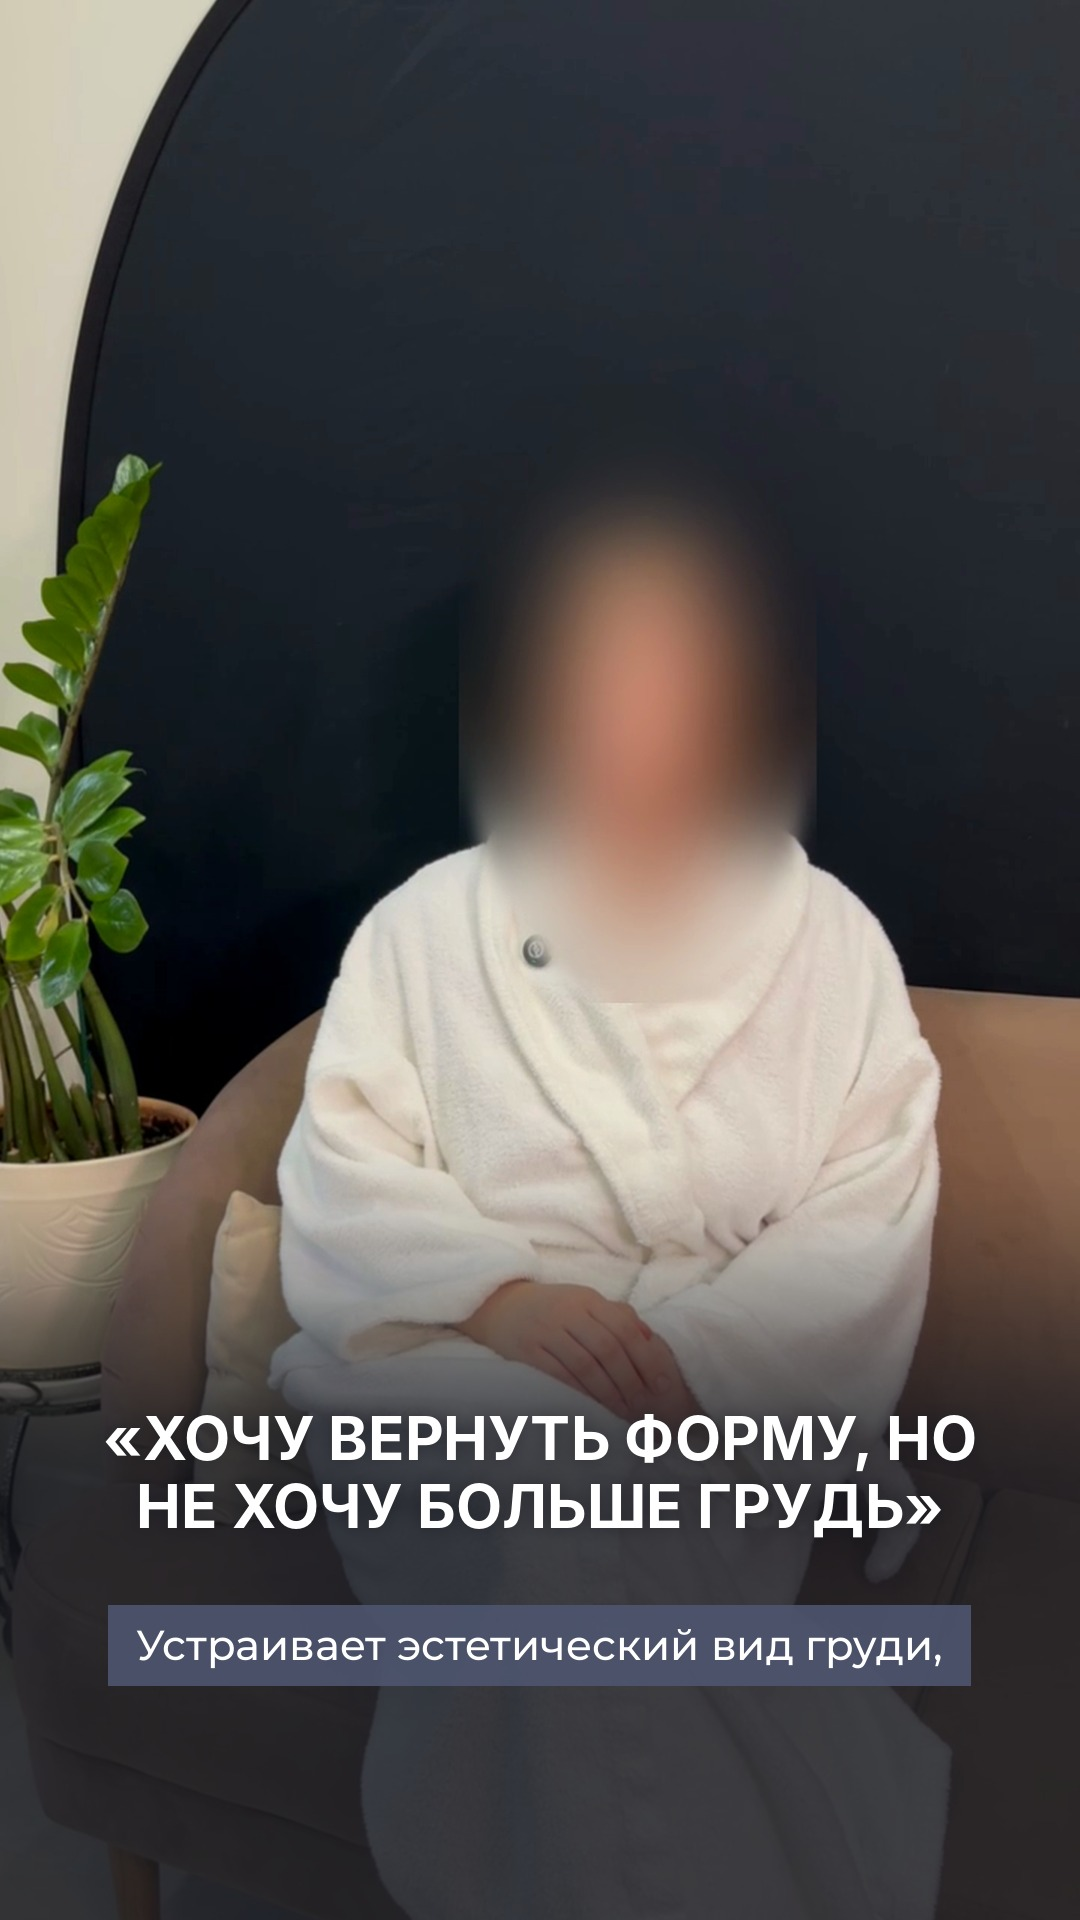
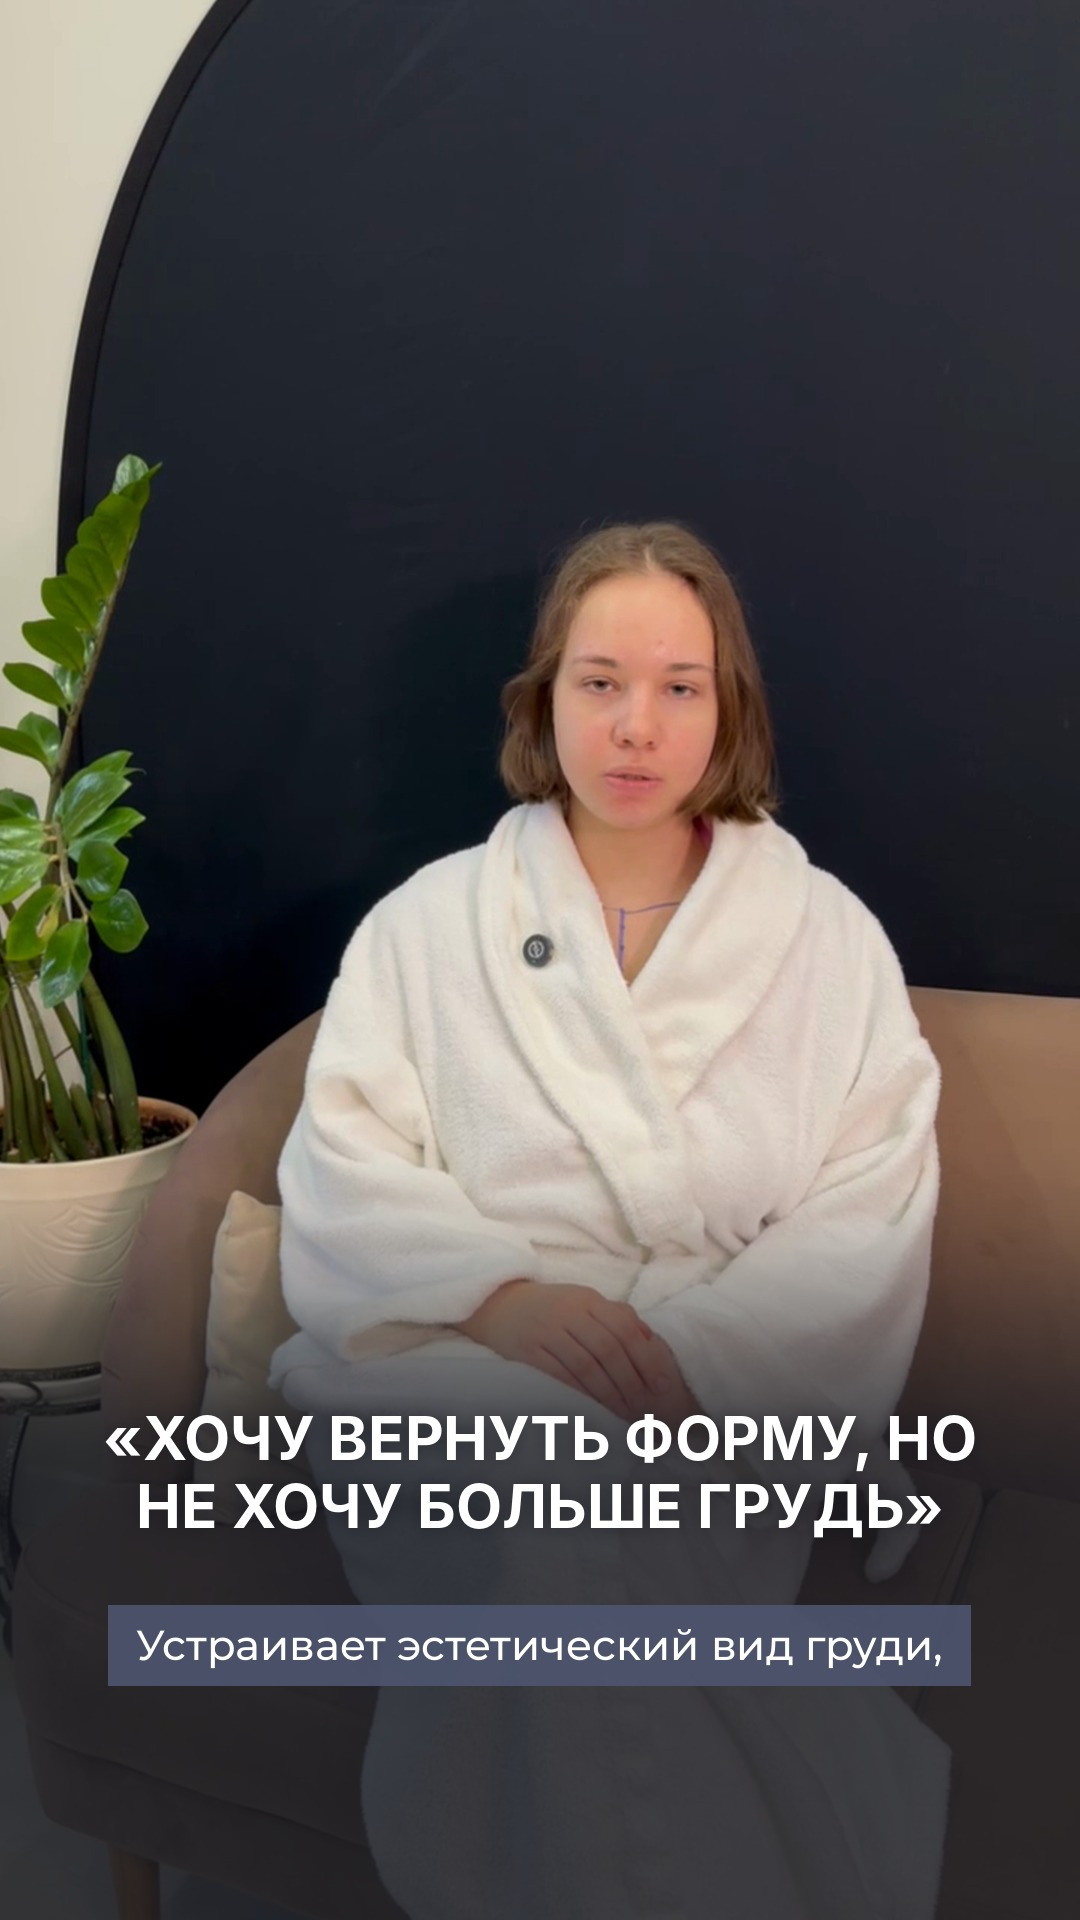
Lift without implants: stories 3 and 5 without face blur
Claude-Session: https://claude.ai/code/session_01DoBoRz2HUe4yvMBz6dWv4L

Changed region(s): [[0.4278, 0.25, 0.7639, 0.5312]]

diff --git a/tools/stories_lift_no_implants.py b/tools/stories_lift_no_implants.py
@@ -446,10 +446,10 @@ def subs_for(name, a, b):
 
 
 # ---------------- stories ----------------
-# the originals, cut and with the patient's face tracked + blurred by tools/face_blur_track.py:
-#   interview_blur.mp4 = IMG_9126 9.2-17.7 + 61.0-77.7     markup_blur.mp4 = IMG_9112 5.6-43.7
-INTERVIEW = "interview_blur.mp4"
-MARKUP = "markup_blur.mp4"
+# the originals, cut (faces left as they are, at the client's request):
+#   interview_clean.mp4 = IMG_9126 9.2-17.7 + 61.0-77.7     markup_clean.mp4 = IMG_9112 5.6-43.7
+INTERVIEW = "interview_clean.mp4"
+MARKUP = "markup_clean.mp4"
 
 
 def s1():

diff --git a/stories_lift_no_implants/README.md b/stories_lift_no_implants/README.md
@@ -7,11 +7,11 @@
 |---|------|-----|------|--------------------|
 | 1 | 01_vernut_formu | фото ДО с разметкой (IMG_7887), кадр ниже подбородка | нет | **Опрос** внизу: «Что беспокоит больше?» — Форма / Объём |
 | 2 | 02_nashe_do | ваша старая сторис с разметкой: старая подпись стёрта, ДО видно целиком, новый текст на животе | нет | — |
-| 3 | 03_ne_hochu_bolshe | оригинал интервью IMG_9126: 0:09–0:18 + 1:01–1:18, лицо размыто | голос + субтитры | — |
+| 3 | 03_ne_hochu_bolshe | оригинал интервью IMG_9126: 0:09–0:18 + 1:01–1:18 | голос + субтитры | — |
 | 4 | 04_nuzhny_li_implanty | фото разметки 3/4 (IMG_7888), лицо за кадром | нет | **Опрос** под текстом: «Если объёма хватает, вы бы выбрали:» — Только подтяжку / Добавила бы объём |
-| 5 | 05_ne_prosto_risunok | оригинал разметки IMG_9112: 0:06–0:44, лицо пациентки размыто | голос + субтитры | — |
+| 5 | 05_ne_prosto_risunok | оригинал разметки IMG_9112: 0:06–0:44 | голос + субтитры | — |
 | 6 | 06_raznaya_podtyazhka | крупный план разметки (IMG_9121), лицо за кадром | нет | — |
 | 7 | 07_konsultaciya | фото хирурга (IMG_7246, раньше не использовалось) | нет | по желанию — ссылка на актуальное «Рубцы» |
 
-Сторис 3 и 5 собраны из оригиналов без старых подписей; лицо пациентки отслеживается и размывается покадрово (tools/face_blur_track.py), субтитры новые, по речи.
+Сторис 3 и 5 собраны из оригиналов без старых подписей, лицо не размыто; субтитры новые, по речи.
 Видео «проход в операционную» (535c…) не вошло: в нём крупно вшит старый текст по центру кадра и низкое качество — для 7-й сторис взято неиспользованное фото хирурга.
